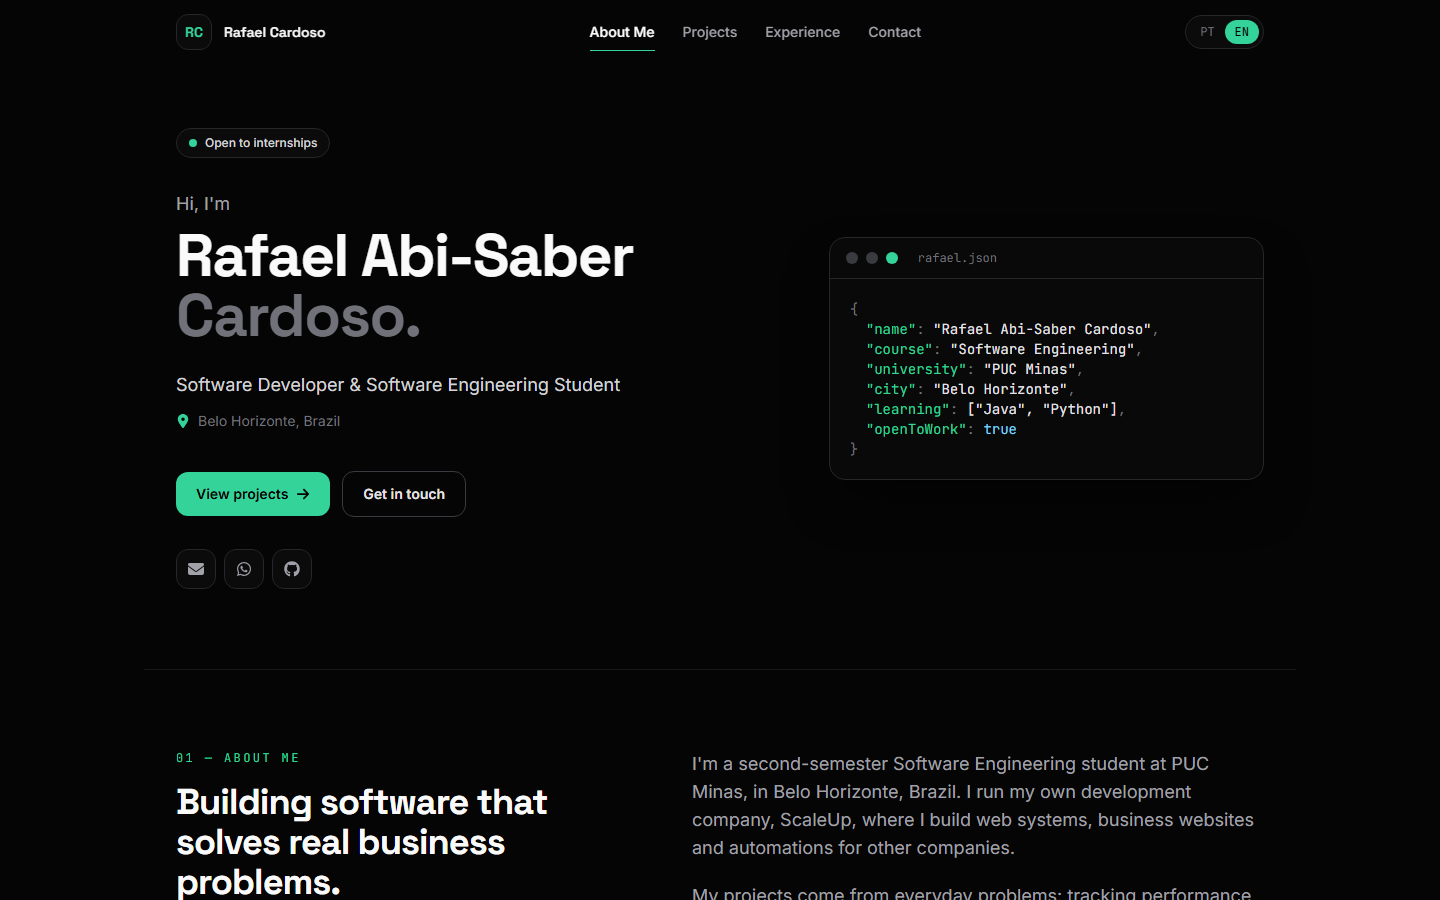
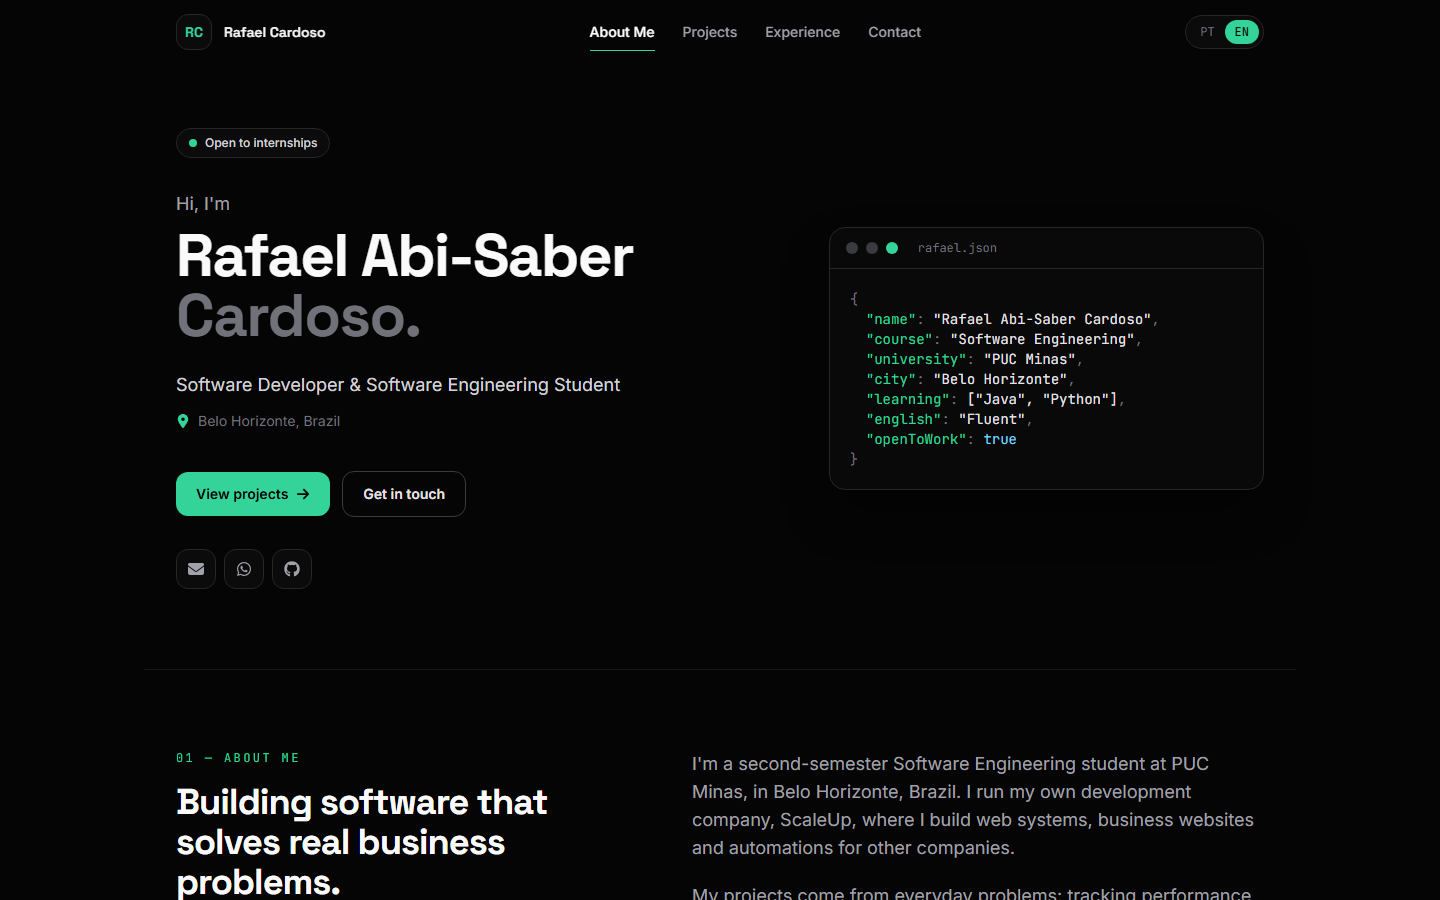
feat: destaca fluência em inglês e adiciona seção de idiomas

Changed region(s): [[0.5938, 0.3422, 0.8125, 0.4978], [0.5625, 0.2489, 0.7188, 0.3111]]

diff --git a/src/i18n/translations.js b/src/i18n/translations.js
@@ -28,11 +28,16 @@ export const translations = {
       highlights: [
         { value: '2º', label: 'período de Engenharia de Software' },
         { value: '5', label: 'projetos desenvolvidos' },
-        { value: '6 meses', label: 'de intercâmbio nos EUA' },
+        { value: 'Fluente', label: 'em inglês, com intercâmbio nos EUA' },
       ],
       interestsTitle: 'Interesses',
       interests: ['Java', 'Python', 'Desenvolvimento Web', 'Automação', 'Banco de Dados', 'Empreendedorismo'],
       stackTitle: 'Tecnologias que utilizo',
+      languagesTitle: 'Idiomas',
+      languages: [
+        { name: 'Português', level: 'Nativo' },
+        { name: 'Inglês', level: 'Fluente · 7 anos de curso e intercâmbio nos EUA' },
+      ],
       goalsTitle: 'Objetivos',
       goals: [
         'Fazer minha empresa de desenvolvimento crescer',
@@ -129,11 +134,16 @@ export const translations = {
       highlights: [
         { value: '2nd', label: 'semester of Software Engineering' },
         { value: '5', label: 'projects built' },
-        { value: '6 months', label: 'exchange program in the USA' },
+        { value: 'Fluent', label: 'in English, with an exchange in the USA' },
       ],
       interestsTitle: 'Interests',
       interests: ['Java', 'Python', 'Web Development', 'Automation', 'Databases', 'Entrepreneurship'],
       stackTitle: 'Technologies I use',
+      languagesTitle: 'Languages',
+      languages: [
+        { name: 'Portuguese', level: 'Native' },
+        { name: 'English', level: 'Fluent · 7 years of English courses and an exchange in the USA' },
+      ],
       goalsTitle: 'Goals',
       goals: [
         'Grow my software development company',

diff --git a/src/pages/About.jsx b/src/pages/About.jsx
@@ -43,6 +43,7 @@ function ProfileCard() {
     ['university', '"PUC Minas"'],
     ['city', '"Belo Horizonte"'],
     ['learning', '["Java", "Python"]'],
+    ['english', lang === 'pt' ? '"Fluente"' : '"Fluent"'],
     ['openToWork', 'true'],
   ]
 
@@ -173,7 +174,7 @@ export default function About() {
           </Reveal>
         </div>
 
-        <div className="mt-16 grid gap-4 md:grid-cols-2">
+        <div className="mt-16 grid gap-4 md:grid-cols-2 lg:grid-cols-3">
           <Reveal className="card p-6">
             <h3 className="text-lg font-semibold">{t.about.interestsTitle}</h3>
             <ul className="mt-4 flex flex-wrap gap-2">
@@ -185,6 +186,17 @@ export default function About() {
             </ul>
           </Reveal>
           <Reveal delay={0.08} className="card p-6">
+            <h3 className="text-lg font-semibold">{t.about.languagesTitle}</h3>
+            <ul className="mt-4 space-y-4">
+              {t.about.languages.map((language) => (
+                <li key={language.name}>
+                  <p className="text-sm font-medium text-zinc-100">{language.name}</p>
+                  <p className="mt-0.5 text-sm text-zinc-500">{language.level}</p>
+                </li>
+              ))}
+            </ul>
+          </Reveal>
+          <Reveal delay={0.16} className="card p-6 md:col-span-2 lg:col-span-1">
             <h3 className="text-lg font-semibold">{t.about.goalsTitle}</h3>
             <ul className="mt-4 space-y-3">
               {t.about.goals.map((goal) => (

diff --git a/src/data/experiences.js b/src/data/experiences.js
@@ -46,9 +46,9 @@ export const experiences = [
     period: { pt: 'Jul 2024 — Dez 2024', en: 'Jul 2024 — Dec 2024' },
     current: false,
     description: {
-      pt: 'Morei seis meses nos EUA estudando. A experiência desenvolveu meu inglês, minha autonomia e a capacidade de me adaptar a culturas e ambientes diferentes.',
-      en: 'I lived in the USA for six months as a student. The experience improved my English, independence and ability to adapt to different cultures and environments.',
+      pt: 'Morei cerca de seis meses nos EUA estudando. Depois de 7 anos de curso de inglês, a experiência consolidou minha fluência no idioma e desenvolveu minha autonomia e a capacidade de me adaptar a culturas e ambientes diferentes.',
+      en: 'I lived in the USA for about six months as a student. After 7 years of English courses, the experience made me fluent in the language and strengthened my independence and ability to adapt to different cultures and environments.',
     },
-    tags: ['English', 'Adaptabilidade'],
+    tags: ['Inglês fluente', 'Adaptabilidade'],
   },
 ]
